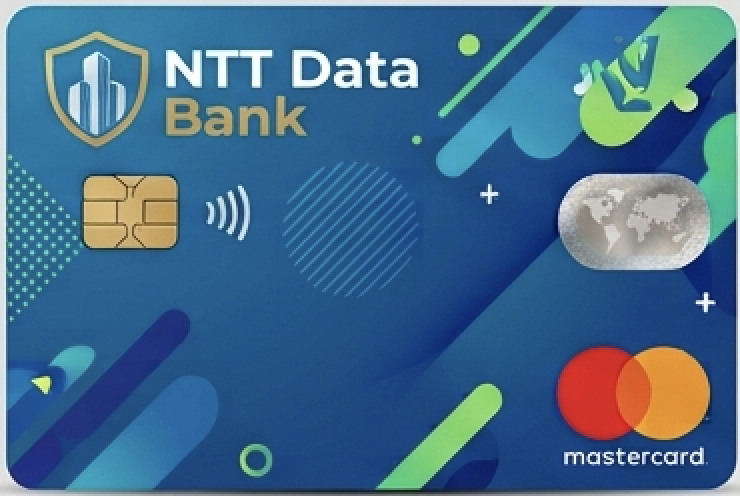
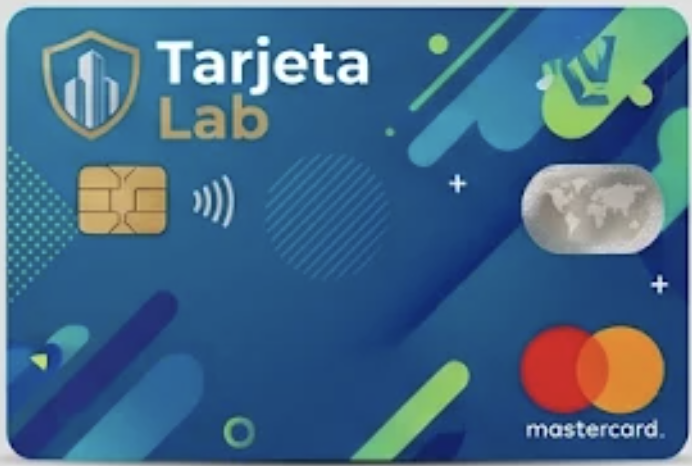
tarjetas modificadas

diff --git a/src/App.tsx b/src/App.tsx
@@ -50,16 +50,16 @@ const cardById: Record<string, string> = {
 import "./App.css"
 
 const policyHtml = `
-<h2>Política de Privacidad – NTTDATABank</h2>
+<h2>Política de Privacidad – TarjetaLab</h2>
 <p><strong>Última actualización:</strong> 19 de noviembre de 2026</p>
 
 <h3>1. Introducción</h3>
-<p>NTTDATABank es una aplicación demostrativa desarrollada con fines educativos y tecnológicos, cuyo objetivo es mostrar las capacidades de integración entre aplicaciones, inteligencia artificial y servicios financieros simulados mediante el protocolo Model Context Protocol (MCP).</p>
+<p>TarjetaLab es una aplicación demostrativa desarrollada con fines educativos y tecnológicos, cuyo objetivo es mostrar las capacidades de integración entre aplicaciones, inteligencia artificial y servicios financieros simulados mediante el protocolo Model Context Protocol (MCP).</p>
 <p>Esta aplicación no es una entidad financiera, no es un banco real y no ofrece productos financieros reales. Las tarjetas, características, beneficios, tasas y límites mostrados corresponden a información de demostración creada para esta aplicación.</p>
-<p>Nos comprometemos a respetar la privacidad de las personas que utilizan NTTDATABank y a proporcionar información transparente sobre el tratamiento de los datos durante su funcionamiento.</p>
+<p>Nos comprometemos a respetar la privacidad de las personas que utilizan TarjetaLab y a proporcionar información transparente sobre el tratamiento de los datos durante su funcionamiento.</p>
 
 <h3>2. Información que recopilamos y procesamos</h3>
-<p>NTTDATABank no solicita credenciales bancarias, números de cuentas reales, contraseñas ni información de tarjetas bancarias personales.</p>
+<p>TarjetaLab no solicita credenciales bancarias, números de cuentas reales, contraseñas ni información de tarjetas bancarias personales.</p>
 <p>Durante el uso de la aplicación pueden procesarse los siguientes datos:</p>
 <p><strong>2.1. Información de navegación y solicitudes</strong></p>
 <ul>
@@ -76,7 +76,7 @@ const policyHtml = `
 <li>Se utiliza exclusivamente para realizar una prueba de detección de vida.</li>
 <li>No tiene como finalidad identificar al usuario ni determinar su identidad.</li>
 <li>No compara el rostro con documentos de identidad ni con una base de datos de personas.</li>
-<li>No almacena las imágenes ni los vídeos capturados en los sistemas propios de NTTDATABank.</li>
+<li>No almacena las imágenes ni los vídeos capturados en los sistemas propios de TarjetaLab.</li>
 </ul>
 <p>El procesamiento de las imágenes se realiza mediante la infraestructura de Microsoft Azure y está sujeto a las políticas de privacidad y conservación del servicio correspondiente.</p>
 
@@ -93,7 +93,7 @@ const policyHtml = `
 <p>La información no se utiliza para evaluar la solvencia económica, aprobar créditos reales, realizar operaciones bancarias ni tomar decisiones financieras sobre los usuarios.</p>
 
 <h3>4. Uso de servicios de terceros</h3>
-<p>Para proporcionar sus funcionalidades, NTTDATABank utiliza servicios tecnológicos de terceros:</p>
+<p>Para proporcionar sus funcionalidades, TarjetaLab utiliza servicios tecnológicos de terceros:</p>
 <p><strong>Microsoft Azure</strong></p>
 <p>Se utiliza Azure AI Face Liveness para realizar la detección de vida mediante la cámara del dispositivo. También se utilizan servicios de infraestructura y comunicación para el funcionamiento de la aplicación.</p>
 <p>Microsoft procesa la información de acuerdo con sus condiciones y políticas de privacidad aplicables.</p>
@@ -105,13 +105,13 @@ const policyHtml = `
 <p>Estos proveedores pueden procesar información técnica necesaria para prestar sus servicios, de acuerdo con sus respectivas políticas y condiciones.</p>
 
 <h3>5. Conservación y almacenamiento de información</h3>
-<p>NTTDATABank no almacena fotografías ni vídeos capturados durante la verificación facial en sus propios sistemas.</p>
+<p>TarjetaLab no almacena fotografías ni vídeos capturados durante la verificación facial en sus propios sistemas.</p>
 <p>Las imágenes y vídeos son procesados por Azure AI Face Liveness para realizar la clasificación correspondiente.</p>
 <p>Microsoft establece condiciones específicas de conservación para su servicio Face Liveness, que pueden variar según la versión y configuración utilizada. Por ello, el procesamiento y la eventual conservación temporal de datos por parte de Microsoft se rigen por su documentación y políticas aplicables.</p>
 <p>Los identificadores y estados de las solicitudes de demostración pueden conservarse en los servicios backend durante el tiempo necesario para gestionar y mostrar el resultado de cada transacción.</p>
 
 <h3>6. Seguridad de la información</h3>
-<p>Implementamos medidas técnicas y organizativas razonables para proteger la información procesada por NTTDATABank frente a accesos no autorizados, alteraciones o divulgaciones indebidas.</p>
+<p>Implementamos medidas técnicas y organizativas razonables para proteger la información procesada por TarjetaLab frente a accesos no autorizados, alteraciones o divulgaciones indebidas.</p>
 <p>La comunicación entre los componentes de la aplicación utiliza conexiones HTTPS cuando corresponde.</p>
 <p>Sin embargo, ningún sistema informático puede garantizar una seguridad absoluta.</p>
 
@@ -127,21 +127,21 @@ const policyHtml = `
 <p><strong>Correo electrónico de privacidad:</strong> javieraraujocuadros@gmail.com</p>
 
 <h3>9. Menores de edad</h3>
-<p>NTTDATABank es una aplicación de demostración tecnológica y no está diseñada para recopilar deliberadamente información personal de menores de edad.</p>
+<p>TarjetaLab es una aplicación de demostración tecnológica y no está diseñada para recopilar deliberadamente información personal de menores de edad.</p>
 <p>La utilización de la funcionalidad de verificación facial debe realizarse respetando los requisitos legales aplicables a la edad y al consentimiento de los usuarios.</p>
 
 <h3>10. Modificaciones de esta política</h3>
 <p>Esta política puede actualizarse cuando se incorporen nuevas funcionalidades, se modifiquen los servicios utilizados o cambien los requisitos legales aplicables.</p>
-<p>La versión vigente estará disponible en la página pública de privacidad de NTTDATABank.</p>
+<p>La versión vigente estará disponible en la página pública de privacidad de TarjetaLab.</p>
 
 <h3>11. Contacto</h3>
-<p>Para consultas relacionadas con esta política de privacidad o con el funcionamiento de NTTDATABank:</p>
-<p><strong>Aplicación:</strong> NTTDATABank</p>
+<p>Para consultas relacionadas con esta política de privacidad o con el funcionamiento de TarjetaLab:</p>
+<p><strong>Aplicación:</strong> TarjetaLab</p>
 <p><strong>Desarrollador / Responsable:</strong> Javier Araujo</p>
 <p><strong>Correo electrónico:</strong> javieraraujocuadros@gmail.com</p>
 <p><strong>País:</strong> Perú</p>
 <hr />
-<p>NTTDATABank es una aplicación demostrativa de desarrollo propio. No representa a una institución financiera real ni proporciona servicios bancarios, crediticios o financieros.</p>
+<p>TarjetaLab es una aplicación demostrativa de desarrollo propio. No representa a una institución financiera real ni proporciona servicios bancarios, crediticios o financieros.</p>
 `;
 
 function App() {

diff --git a/src/index.css b/src/index.css
@@ -70,7 +70,7 @@ h1,
 h2 {
   font-family: var(--heading);
   font-weight: 500;
-  color: var(--text-h);
+  color: #05bdba;
 }
 
 h1 {

diff --git a/politicas.md b/politicas.md
@@ -1,18 +1,18 @@
-# Política de Privacidad – NTTDATABank
+# Política de Privacidad – TarjetaLab
 
 **Última actualización:** 19 de noviembre de 2026
 
 ## 1. Introducción
 
-NTTDATABank es una aplicación demostrativa desarrollada con fines educativos y tecnológicos, cuyo objetivo es mostrar las capacidades de integración entre aplicaciones, inteligencia artificial y servicios financieros simulados mediante el protocolo Model Context Protocol (MCP).
+TarjetaLab es una aplicación demostrativa desarrollada con fines educativos y tecnológicos, cuyo objetivo es mostrar las capacidades de integración entre aplicaciones, inteligencia artificial y servicios financieros simulados mediante el protocolo Model Context Protocol (MCP).
 
 Esta aplicación no es una entidad financiera, no es un banco real y no ofrece productos financieros reales. Las tarjetas, características, beneficios, tasas y límites mostrados corresponden a información de demostración creada para esta aplicación.
 
-Nos comprometemos a respetar la privacidad de las personas que utilizan NTTDATABank y a proporcionar información transparente sobre el tratamiento de los datos durante su funcionamiento.
+Nos comprometemos a respetar la privacidad de las personas que utilizan TarjetaLab y a proporcionar información transparente sobre el tratamiento de los datos durante su funcionamiento.
 
 ## 2. Información que recopilamos y procesamos
 
-NTTDATABank no solicita credenciales bancarias, números de cuentas reales, contraseñas ni información de tarjetas bancarias personales.
+TarjetaLab no solicita credenciales bancarias, números de cuentas reales, contraseñas ni información de tarjetas bancarias personales.
 
 Durante el uso de la aplicación pueden procesarse los siguientes datos:
 
@@ -33,7 +33,7 @@ Esta funcionalidad:
 - Se utiliza exclusivamente para realizar una prueba de detección de vida.
 - No tiene como finalidad identificar al usuario ni determinar su identidad.
 - No compara el rostro con documentos de identidad ni con una base de datos de personas.
-- No almacena las imágenes ni los vídeos capturados en los sistemas propios de NTTDATABank.
+- No almacena las imágenes ni los vídeos capturados en los sistemas propios de TarjetaLab.
 
 El procesamiento de las imágenes se realiza mediante la infraestructura de Microsoft Azure y está sujeto a las políticas de privacidad y conservación del servicio correspondiente.
 
@@ -52,7 +52,7 @@ La información no se utiliza para evaluar la solvencia económica, aprobar cré
 
 ## 4. Uso de servicios de terceros
 
-Para proporcionar sus funcionalidades, NTTDATABank utiliza servicios tecnológicos de terceros:
+Para proporcionar sus funcionalidades, TarjetaLab utiliza servicios tecnológicos de terceros:
 
 **Microsoft Azure**
 
@@ -75,7 +75,7 @@ Estos proveedores pueden procesar información técnica necesaria para prestar s
 
 ## 5. Conservación y almacenamiento de información
 
-NTTDATABank no almacena fotografías ni vídeos capturados durante la verificación facial en sus propios sistemas.
+TarjetaLab no almacena fotografías ni vídeos capturados durante la verificación facial en sus propios sistemas.
 
 Las imágenes y vídeos son procesados por Azure AI Face Liveness para realizar la clasificación correspondiente.
 
@@ -87,7 +87,7 @@ Los identificadores y estados de las solicitudes de demostración pueden conserv
 
 ## 6. Seguridad de la información
 
-Implementamos medidas técnicas y organizativas razonables para proteger la información procesada por NTTDATABank frente a accesos no autorizados, alteraciones o divulgaciones indebidas.
+Implementamos medidas técnicas y organizativas razonables para proteger la información procesada por TarjetaLab frente a accesos no autorizados, alteraciones o divulgaciones indebidas.
 
 La comunicación entre los componentes de la aplicación utiliza conexiones HTTPS cuando corresponde.
 
@@ -113,7 +113,7 @@ Para realizar consultas o solicitudes relacionadas con la privacidad, pueden com
 
 ## 9. Menores de edad
 
-NTTDATABank es una aplicación de demostración tecnológica y no está diseñada para recopilar deliberadamente información personal de menores de edad.
+TarjetaLab es una aplicación de demostración tecnológica y no está diseñada para recopilar deliberadamente información personal de menores de edad.
 
 La utilización de la funcionalidad de verificación facial debe realizarse respetando los requisitos legales aplicables a la edad y al consentimiento de los usuarios.
 
@@ -121,13 +121,13 @@ La utilización de la funcionalidad de verificación facial debe realizarse resp
 
 Esta política puede actualizarse cuando se incorporen nuevas funcionalidades, se modifiquen los servicios utilizados o cambien los requisitos legales aplicables.
 
-La versión vigente estará disponible en la página pública de privacidad de NTTDATABank.
+La versión vigente estará disponible en la página pública de privacidad de TarjetaLab.
 
 ## 11. Contacto
 
-Para consultas relacionadas con esta política de privacidad o con el funcionamiento de NTTDATABank:
+Para consultas relacionadas con esta política de privacidad o con el funcionamiento de TarjetaLab:
 
-**Aplicación:** NTTDATABank
+**Aplicación:** TarjetaLab
 
 **Desarrollador / Responsable:** Javier Araujo
 
@@ -137,4 +137,4 @@ Para consultas relacionadas con esta política de privacidad o con el funcionami
 
 ---
 
-NTTDATABank es una aplicación demostrativa de desarrollo propio. No representa a una institución financiera real ni proporciona servicios bancarios, crediticios o financieros.
+TarjetaLab es una aplicación demostrativa de desarrollo propio. No representa a una institución financiera real ni proporciona servicios bancarios, crediticios o financieros.
